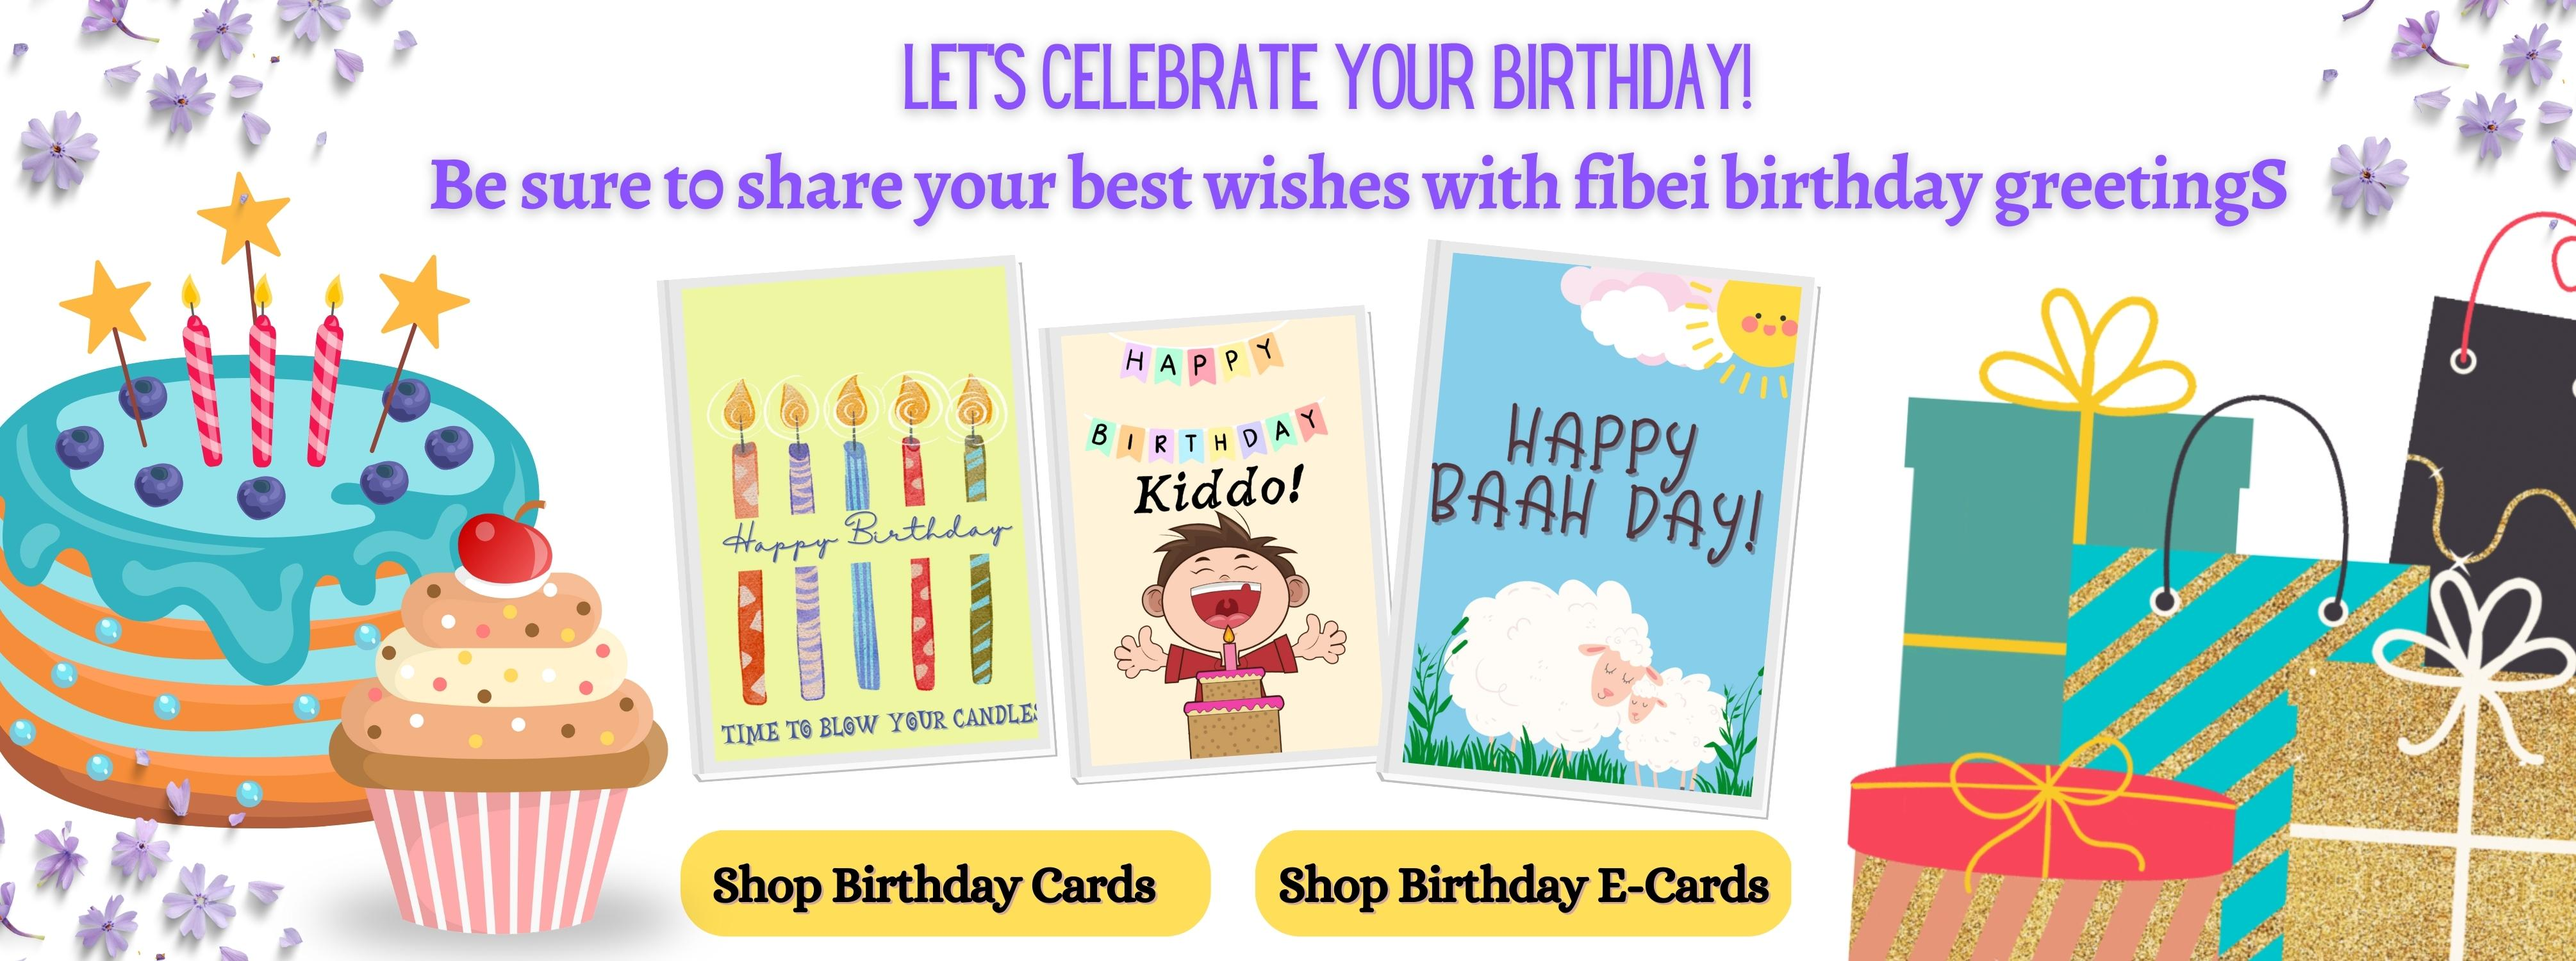
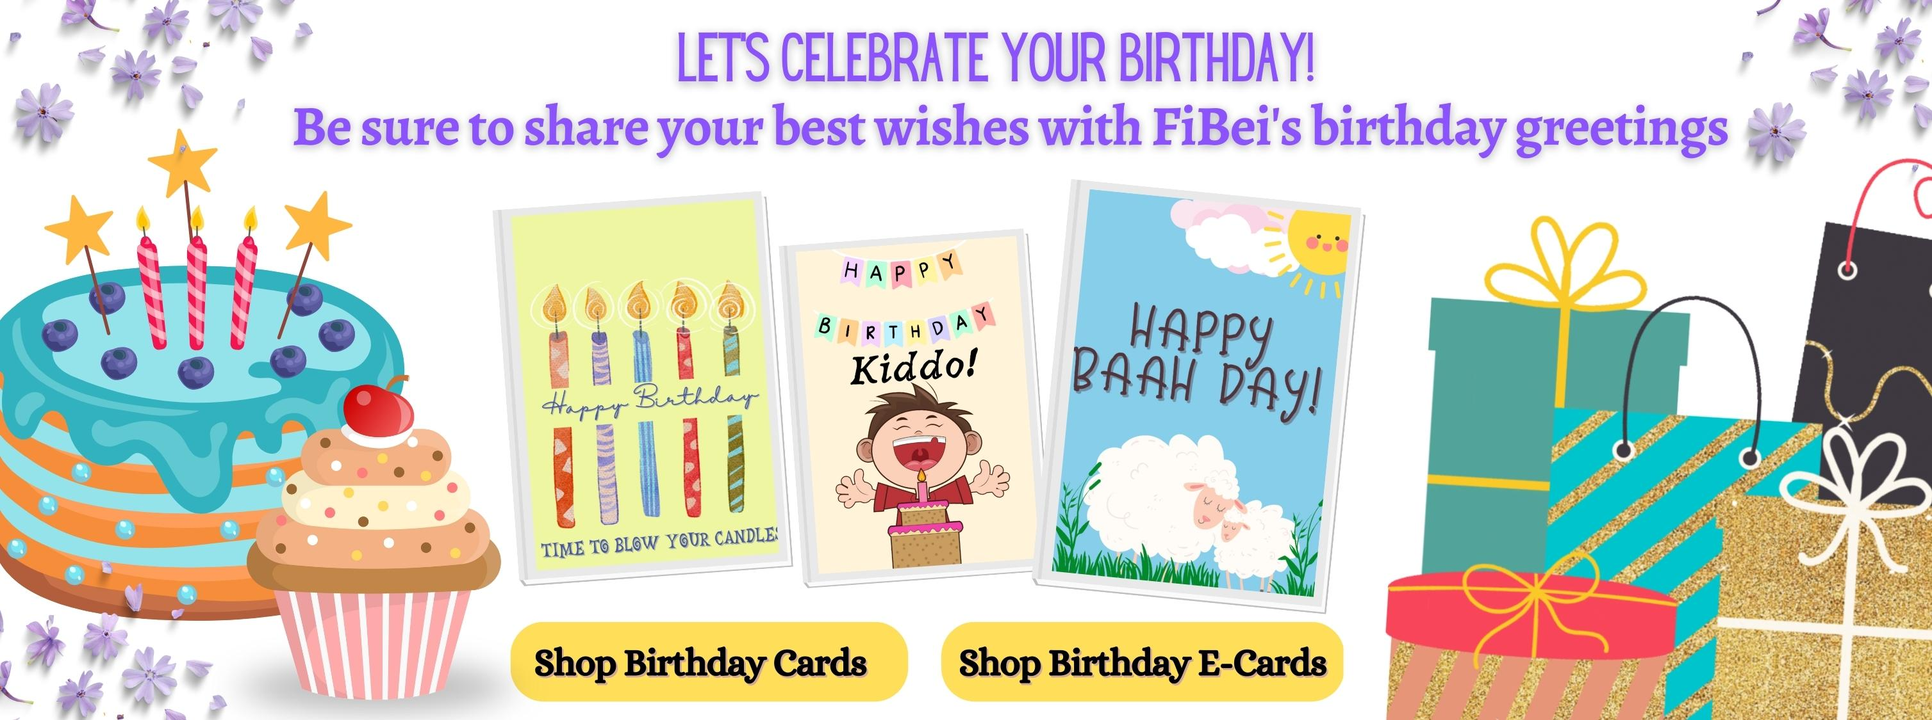
Homepage for Mother's Day
Finalize Home Page Changes

Changed region(s): [[0.1559, 0.1244, 0.9041, 0.2489], [0.4988, 0.9022, 0.6859, 0.9333], [0.2806, 0.9022, 0.4365, 0.9333]]

diff --git a/src/app/home/home.component.html b/src/app/home/home.component.html
@@ -8,7 +8,7 @@
                     <a [routerLink]="['/cards/event/HISzjwdxyGTDgdjmTp9o']" class="to-link" *ngIf="priceService.getLocation() == 'ph'">
                         <img src="/assets/images/mothersday/ph-gift.png" style="width:100%; padding-top: 11px;">
                     </a>
-                    <a [routerLink]="['/cards/event/HISzjwdxyGTDgdjmTp9o']" class="to-link" *ngIf="priceService.getLocation() != 'ph'">
+                    <a [routerLink]="['/poetrycards/6WApjHneFW5YfQqIfwOK']" class="to-link" *ngIf="priceService.getLocation() != 'ph'">
                         <img src="/assets/images/mothersday/us-gift.png" style="width:100%; padding-top: 11px;">
                     </a>
                 </div>
@@ -17,7 +17,7 @@
                     <div style="height: 11%; width: 48%; position: absolute; left: 7%; bottom: 7%; cursor: pointer;" [routerLink]="['/cards/event/6WApjHneFW5YfQqIfwOK']"></div>
                     <div style="height: 53%; width: 19%; position: absolute; left: 3%; bottom: 32%; cursor: pointer; transform: rotate(-4deg);" [routerLink]="['/card/0NTnbXmalZBchodQYVaG']"></div>
                     <div style="height: 42%; width: 15%; position: absolute; left: 23%; bottom: 29%; cursor: pointer; transform: rotate(-4deg);" [routerLink]="['/card/33XhTXcUVWmd2hduGTKv']"></div>
-                    <div style="height: 57%; width: 22%; position: absolute; left: 40%; bottom: 28%; cursor: pointer; transform: rotate(-4deg);" [routerLink]="['/card/t9X0a59ZHHvAKn1tdTKd']"></div>
+                    <div style="height: 57%; width: 22%; position: absolute; left: 40%; bottom: 28%; cursor: pointer; transform: rotate(6deg);" [routerLink]="['/card/t9X0a59ZHHvAKn1tdTKd']"></div>
                 </div>
             </div>
             <div class="row">
@@ -44,21 +44,26 @@
                     <img src="/assets/images/mothersday/birthday.jpg" style="width:100%">
                     <div style="height: 11%; width: 20%; position: absolute; left: 27%; bottom: 2.5%; cursor: pointer;" [routerLink]="['/cards/event/dGiyJX4go7yPhCJNJN4P']"></div>
                     <div style="height: 11%; width: 20%; position: absolute; left: 49%; bottom: 2.5%; cursor: pointer;" [routerLink]="['/e-cards/events/AptWe6SUrtzFj18nr21c']"></div>
+                    <div style="height: 52%; width: 14%; position: absolute; left: 26.6%; bottom: 20%; cursor: pointer; transform: rotate(-4deg);" [routerLink]="['/card/Klt7mSmRjQpsIqH4u5KS']"></div>
+                    <div style="height: 47%; width: 12.8%; position: absolute; left: 41%; bottom: 20%; cursor: pointer; transform: rotate(-4deg);" [routerLink]="['/card/Bfpij5w6qKeXusgh5CwV']"></div>
+                    <div style="height: 55%; width: 14.5%; position: absolute; left: 54.5%; bottom: 18%; cursor: pointer; transform: rotate(6deg);" [routerLink]="['/card/mugRbIKG9giDU4O26MLh']"></div>
                 </div>
             </div>
             <div class="row">
-                <div class="col-md-12">
+                <div class="col-md-12" style="position: relative;">
                     <img src="/assets/images/valentines/v2/header-2-min.png">
-                    <a [routerLink]="['/cards/event/7TrEt1o2415ST4CU7sy7']" class="to-link">
-                        <img src="/assets/images/bday/3.png">
-                    </a>
-                    <a [routerLink]="['/cards/event/SvyQh2evMD1uynJuTTmy']" class="to-link">
-                        <img src="/assets/images/bday/4.png">
-                    </a>
+                    <img src="/assets/images/mothersday/graduate-banner.jpg">
+                    <div style="height: 9.5%; width: 33%; position: absolute; left: 38.4%; bottom: 28.5%; cursor: pointer;" [routerLink]="['/cards/event/7TrEt1o2415ST4CU7sy7']"></div>
+                    <!--
+                        /card/Ipm0KTgyDgCD8QRABnUl
+                        <a [routerLink]="['/cards/event/7TrEt1o2415ST4CU7sy7']" class="to-link">
+                            <img src="/assets/images/bday/3.png">
+                        </a>
+                    -->
+                 </div>
                 </div>
-            </div>
 
-            <!-- <div>
+                <!-- <div>
                 <div class="val-bk">
 
                     <div class="row">
@@ -87,9 +92,9 @@
                 <a [routerLink]="['/valentines/greetings']" class="to-link"><img
                         src="/assets/images/valentines/editted-min.png"></a>
             </div> -->
-            <div>
-                <div class="row">
-                    <!-- <div class="col-md-12">
+                <div>
+                    <div class="row">
+                        <!-- <div class="col-md-12">
                         <br />
                         <h2 class="text-center cus-text-title">{{'home.featuredtitle'|translate}}</h2>
                     </div>
@@ -110,57 +115,57 @@
                             <br /> <br />
                         </div>
                     </div> -->
-                    <!-- <div class="col-md-12">
+                        <!-- <div class="col-md-12">
                         <div><img src="/assets/images/newyear/4.png"></div>
                         <br /> <br />
                     </div>
                     <br /> -->
 
-                    <div class="col-md-12 sns-no-label">
-                        <!-- <div [routerLink]="['/signandsendpage']" class="to-link"> <img src="/assets/images/hw/sign-and-send-02.png" style="width:100%"></div>
+                        <div class="col-md-12 sns-no-label">
+                            <!-- <div [routerLink]="['/signandsendpage']" class="to-link"> <img src="/assets/images/hw/sign-and-send-02.png" style="width:100%"></div>
                         <br /> <br />-->
-                        <app-home-featured caption="Sign and Send" [ids]="['FUmF8oMnhmpO9WgkziZN','GaHUF8E482lLIIebNPrY','JEiZgBQumVFDDyfxlJ24','JLpujLChwAf7CAay9HAx','UP19y5cwfVJByXTlmWQG','IPp9QMwawzBFgtgTxDQ1','gktcGJN6v6ROGUJSrMAU','xFG9kBmBv8sUgwvTWHVM','0PndLlvpXe3V46zHT5RY','2dH8qe9kgc7aN7pHSp4a','4Wz5Qqoa7yYpU0DfIlXA','5KIsabJ3spJSkOmbZLVD','Bfpij5w6qKeXusgh5CwV','QCqK7J0gEmm6sf2gznDj','1e3HY8oyjU0CwsZWqpoK','Gj9DQKqN3krzeVVhJRHb','OqiMLF73ek3TBE2PNPq6','cJXDwCuwCisW1vg24CsP','Ae11kuzI272NDJ159FwT','Tt7wE47yUOCBczValj3b','mqu9kvb4AdF8WwL9TAvA','qbQIVVGWv6LD0V1kPfkR','YM0LKWPou3NXAIAARtGR','6JHecB0o2wkJmYbKXCj8']"></app-home-featured>
+                            <app-home-featured caption="Sign and Send" [ids]="['FUmF8oMnhmpO9WgkziZN','GaHUF8E482lLIIebNPrY','JEiZgBQumVFDDyfxlJ24','JLpujLChwAf7CAay9HAx','UP19y5cwfVJByXTlmWQG','IPp9QMwawzBFgtgTxDQ1','gktcGJN6v6ROGUJSrMAU','xFG9kBmBv8sUgwvTWHVM','0PndLlvpXe3V46zHT5RY','2dH8qe9kgc7aN7pHSp4a','4Wz5Qqoa7yYpU0DfIlXA','5KIsabJ3spJSkOmbZLVD','Bfpij5w6qKeXusgh5CwV','QCqK7J0gEmm6sf2gznDj','1e3HY8oyjU0CwsZWqpoK','Gj9DQKqN3krzeVVhJRHb','OqiMLF73ek3TBE2PNPq6','cJXDwCuwCisW1vg24CsP','Ae11kuzI272NDJ159FwT','Tt7wE47yUOCBczValj3b','mqu9kvb4AdF8WwL9TAvA','qbQIVVGWv6LD0V1kPfkR','YM0LKWPou3NXAIAARtGR','6JHecB0o2wkJmYbKXCj8']"></app-home-featured>
 
-                    </div>
-                    <div class="col-md-12">
-                        <br />
-                        <h2 class="text-center cus-text-title">{{'home.featuredcategories'|translate}}</h2>
-                    </div>
-                    <div class="col-md-12">
-                        <app-home-featured caption="Mother's Day" homeCardEvent="Mother's Day" [limit]="100"></app-home-featured>
-                    </div>
-                    <div class="col-md-12">
-                        <app-home-featured caption="Anniversary" homeCardEvent="Anniversary" [limit]="100"></app-home-featured>
-                    </div>
-                    <div class="col-md-12">
-                        <app-home-featured caption="Sympathy" homeCardEvent="Sympathy" [limit]="100"></app-home-featured>
-                    </div>
-                    <div class="col-md-12">
-                        <app-home-featured caption="Pet Cards" homeCardEvent="Pet" [limit]="100"></app-home-featured>
+                        </div>
+                        <div class="col-md-12">
+                            <br />
+                            <h2 class="text-center cus-text-title">{{'home.featuredcategories'|translate}}</h2>
+                        </div>
+                        <div class="col-md-12">
+                            <app-home-featured caption="Mother's Day" homeCardEvent="Mother's Day" [limit]="100"></app-home-featured>
+                        </div>
+                        <div class="col-md-12">
+                            <app-home-featured caption="Anniversary" homeCardEvent="Anniversary" [limit]="100"></app-home-featured>
+                        </div>
+                        <div class="col-md-12">
+                            <app-home-featured caption="Sympathy" homeCardEvent="Sympathy" [limit]="100"></app-home-featured>
+                        </div>
+                        <div class="col-md-12">
+                            <app-home-featured caption="Pet Cards" homeCardEvent="Pet" [limit]="100"></app-home-featured>
+                        </div>
                     </div>
                 </div>
-            </div>
-            <div class="row">
-                <div class="col-md-12" style="position: relative;">
-                    <img src="/assets/images/mothersday/signandsend.jpg" style="width:100%">
-                    <div style="height: 10%; width: 32%; position: absolute; left: 9%; bottom: 0%; cursor: pointer;" [routerLink]="['/signandsend']"></div>
-                    <div style="height: 10%; width: 20%; position: absolute; left: 53%; bottom: 0%; cursor: pointer;" [routerLink]="['/signandsendpage']"></div>
+                <div class="row">
+                    <div class="col-md-12" style="position: relative;">
+                        <img src="/assets/images/mothersday/signandsend.jpg" style="width:100%">
+                        <div style="height: 10%; width: 32%; position: absolute; left: 9%; bottom: 0%; cursor: pointer;" [routerLink]="['/signandsend']"></div>
+                        <div style="height: 10%; width: 20%; position: absolute; left: 53%; bottom: 0%; cursor: pointer;" [routerLink]="['/signandsendpage']"></div>
+                    </div>
                 </div>
-            </div>
 
-            <div>
-                <img src="/assets/images/valentines/v2/t-1-min.png" class="img-fluid cursor w100">
-                <br /><br />
-            </div>
-            <div class="col-md-12">
-                <!-- caption="BEST SELLER CARDS" -->
-                <app-home-bestseller></app-home-bestseller>
-            </div>
-            <div>
-                <img src="/assets/images/valentines/v2/t-2-min.png" class="img-fluid cursor w100">
-                <br /><br />
-            </div>
-            <!-- <div>
+                <div>
+                    <img src="/assets/images/valentines/v2/t-1-min.png" class="img-fluid cursor w100">
+                    <br /><br />
+                </div>
+                <div class="col-md-12">
+                    <!-- caption="BEST SELLER CARDS" -->
+                    <app-home-bestseller></app-home-bestseller>
+                </div>
+                <div>
+                    <img src="/assets/images/valentines/v2/t-2-min.png" class="img-fluid cursor w100">
+                    <br /><br />
+                </div>
+                <!-- <div>
                 <div class="row">
                     <div class="col-md-12">
                         <br /> <br />
@@ -171,14 +176,14 @@
                 </div>
             </div> -->
 
-            <div class="col-md-12">
-                <!-- caption="BEST SELLER GIFTS" -->
-                <!-- <app-home-bestseller
+                <div class="col-md-12">
+                    <!-- caption="BEST SELLER GIFTS" -->
+                    <!-- <app-home-bestseller
                     [ids]="['TWHYSqWcfejKR4ISqgkJ','RKAwStKSVltG6PgSrhKr','65R0tzljmfUbHTJ2oLDI','Ca4O3n9XhgEycwsQSeCQ','U7dYbkrpzv1kRopldrTG','WyloWUTIwkIUkoKhAMQA','pOxaKCkomN6vvqXsWq32','Bt8IoYIQLVjsm5qf0yes']"></app-home-bestseller> -->
-                <app-home-bestseller [ids]="['2X3ni7P5BqGPU1UbBpwq','Euxi0KuwUQuzBvN29vEo','q7d8sezaICMch9CxdDKm','JKoqEQ373txpRG6e9u4r']"></app-home-bestseller>
+                    <app-home-bestseller [ids]="['2X3ni7P5BqGPU1UbBpwq','Euxi0KuwUQuzBvN29vEo','q7d8sezaICMch9CxdDKm','JKoqEQ373txpRG6e9u4r']"></app-home-bestseller>
 
-            </div>
-            <!-- <div>
+                </div>
+                <!-- <div>
                 <div class="row">
                     <div class="col-md-3 col-12">
                         <img src="/assets/images/valentines/val-2.png"
@@ -194,20 +199,20 @@
                 </div>
             </div> -->
 
-            <div>
-                <div class="row">
-                    <div class="col-md-12">
-                        <img src="/assets/images/valentines/v2/bottom-banner-min.png" *ngIf="priceService.getLocation() == 'ph'" class="img-fluid " style="width:100%">
-                        <img src="/assets/images/valentines/v2/bottom-banner-min-us.png" *ngIf="priceService.getLocation() != 'ph'" class="img-fluid " style="width:100%">
-                        <br /> <br />
-                        <img src="/assets/images/valentines/v2/2-min.png" class="img-fluid cursor" style="width:100%" [routerLink]="['/stickers']">
-                        <br /> <br />
+                <div>
+                    <div class="row">
+                        <div class="col-md-12">
+                            <img src="/assets/images/valentines/v2/bottom-banner-min.png" *ngIf="priceService.getLocation() == 'ph'" class="img-fluid " style="width:100%">
+                            <img src="/assets/images/valentines/v2/bottom-banner-min-us.png" *ngIf="priceService.getLocation() != 'ph'" class="img-fluid " style="width:100%">
+                            <br /> <br />
+                            <img src="/assets/images/valentines/v2/2-min.png" class="img-fluid cursor" style="width:100%" [routerLink]="['/stickers']">
+                            <br /> <br />
+                        </div>
                     </div>
+
                 </div>
 
             </div>
-
-        </div>
     </section>
     <app-footer></app-footer>
 </ion-content>

diff --git a/src/app/stickers/stickers.component.html b/src/app/stickers/stickers.component.html
@@ -4,7 +4,8 @@
         <div class="container animate main">
             <div class="row text-center">
                 <div class="col-md-12">
-                    <img src="/assets/images/sticker/banner.png" class="img-fluid">
+                    <img src="/assets/images/mothersday/sticker-banner.png" class="img-fluid">
+                    <!--
                     <br /> <br />
                     <div style="background:#c8ddf8;padding:10px">
                         <div class="row">
@@ -22,8 +23,23 @@
                             </div>
                         </div>
                     </div>
-                    <img src="/assets/images/mothersday/sticker-categories.png">
                     <br /> <br />
+                    -->
+                </div>
+            </div>
+
+            <div class="row pt-4">
+                <div class="col-md-12" style="position: relative;">
+                    <div style="background:#c8ddf8; height: 20px;"></div>
+                    <img src="/assets/images/mothersday/sticker-featured.gif" class="img-fluid">
+                    <div style="background:#c8ddf8; height: 30px;"></div>
+
+                    <div style="height: 24%; width: 21.6%; position: absolute; left: 8%; bottom: 20%; cursor: pointer;" [routerLink]="['/stickercards']"></div>
+                    <div style="height: 24%; width: 19.9%; position: absolute; left: 40%; bottom: 19%; cursor: pointer;" [routerLink]="['/stickercards/clDjnznNkLmBUgjyCNlP']"></div>
+                    <div style="height: 24%; width: 20.4%; position: absolute; left: 69%; bottom: 19%; cursor: pointer;" [routerLink]="['/stickercards/yhq0JBXSwBx0BgLLUDuH']"></div>
+                </div>
+                <div class="col-md-12">
+                    <img src="/assets/images/mothersday/sticker-categories.png">
                 </div>
             </div>
 

diff --git a/src/app/events/events.component.html b/src/app/events/events.component.html
@@ -10,6 +10,13 @@
 
             </div>
             <div class="row">
+                <div class="col-md-12" style="position: relative">
+                    <img src="/assets/images/mothersday/event-subbanner.gif">
+                    <div style="height: 100%; width: 17%; position: absolute; left: 40%; bottom: 0%; cursor: pointer;" [routerLink]="['/cards/event/dGiyJX4go7yPhCJNJN4P']"></div>
+                    <div style="height: 100%; width: 17%; position: absolute; left: 59.5%; bottom: 0%; cursor: pointer;" [routerLink]="['/cards/event/dGiyJX4go7yPhCJNJN4P']"></div>
+                    <div style="height: 100%; width: 18%; position: absolute; left: 78.5%; bottom: 0%; cursor: pointer;" [routerLink]="['/cards/event/7TrEt1o2415ST4CU7sy7']"></div>
+                </div>
+                <!--
                 <div class="col-md-3 col-6">
                     <br/><br/>
                     <img src="/assets/images/featured/event/title.png">
@@ -23,6 +30,7 @@
                 <div class="col-md-3 col-6">
                     <a [routerLink]="['/cards/event/7TrEt1o2415ST4CU7sy7']" class="to-link">  <img src="/assets/images/featured/event/graduation.png" alt="graduation" title="graduation"></a>
                 </div>
+                -->
             </div>
             <br/><br/>
             <div class="row">

diff --git a/src/app/sign-and-send-events/sign-and-send-events.component.html b/src/app/sign-and-send-events/sign-and-send-events.component.html
@@ -3,8 +3,11 @@
     <section class="section-name padding-y-sm bk-hw">
         <div class="container animate main">
             <div class="col-md-12 mb-4">
-                <!-- <img src="../../assets/images/banner/s-and-s-banner.png" class="img-fluid pointer" style="border-radius:6px; width:100% !important"> -->
                 <img src="../../assets/images/signandsend/v4/banner.png" class="img-fluid pointer" style="border-radius:6px; width:100% !important">
+            </div>
+            <div class="col-md-12 mb-2" style="position: relative">
+                <img src="/assets/images/mothersday/signandsend-subbanner.png" class="img-fluid pointer" style="width:100% !important">
+                <div style="height: 79%; width: 21%; position: absolute; left: 42%; bottom: 12%; cursor: pointer;" [routerLink]="['/signandsendcards/APVbDT7PuIhnYXhru5zi']"></div>
             </div>
             <div class="panel-xmas">
                 <div class="row">
